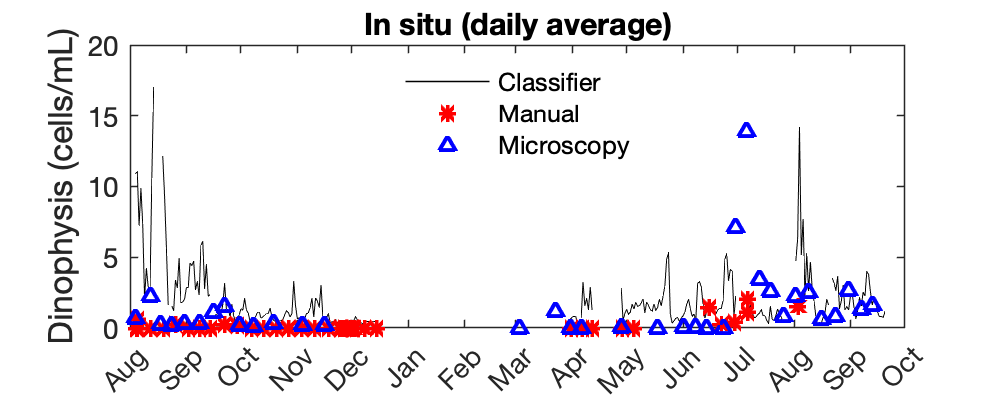
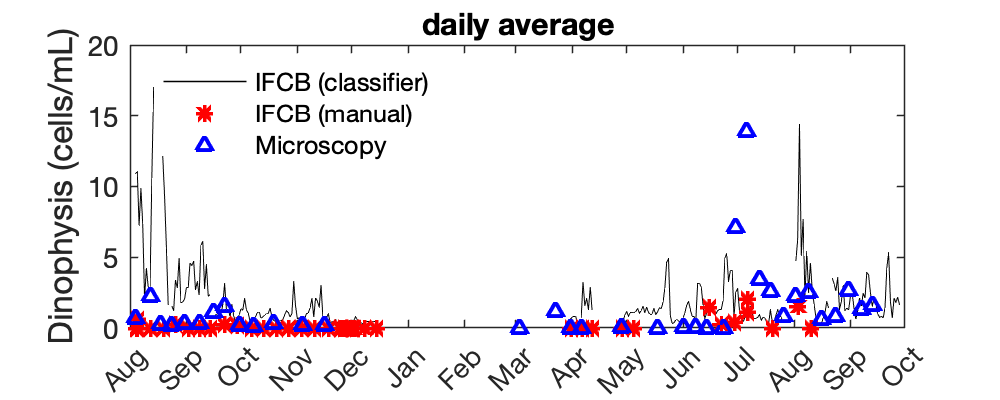
new BI summary plots

diff --git a/NOAA/BuddInlet/plot_manual_vs_class_Dinophysis.m b/NOAA/BuddInlet/plot_manual_vs_class_Dinophysis.m
@@ -15,17 +15,13 @@ idx=~strcmp(filecomment,{' '}); % remove discrete samples
 ml_analyzed(idx)=[]; matdate(idx)=[]; classcount(idx,:)=[];
 
 %%%% load in classified data
-Y1=load([filepath 'IFCB-Data/BuddInlet/class/summary_biovol_allTB2021'],...
-    'class2useTB','ml_analyzedTB','mdateTB','classcountTB','filecommentTB');
-Y2=load([filepath 'IFCB-Data/BuddInlet/class/summary_biovol_allTB2022'],...
-    'class2useTB','ml_analyzedTB','mdateTB','classcountTB','filecommentTB');
-class2useTB=Y1.class2useTB;
-ml_analyzedTB=[Y1.ml_analyzedTB;Y2.ml_analyzedTB];
-mdateTB=[Y1.mdateTB;Y2.mdateTB];
-classcountTB=[Y1.classcountTB;Y2.classcountTB];
-filecommentTB=[Y1.filecommentTB;Y2.filecommentTB];
+load([filepath 'IFCB-Data/BuddInlet/class/summary_biovol_allTB_2021-2022'],...
+    'mdateTB','class2useTB','ml_analyzedTB','classcountTB','filecommentTB','runtypeTB');
 
-%% separate discrete samples (data with file comment)
+% remove backscatter triggered samples from data
+idx=contains(runtypeTB,'ALT'); ml_analyzedTB(idx)=[]; mdateTB(idx)=[]; filecommentTB(idx)=[]; classcountTB(idx,:)=[];
+
+% separate discrete samples (data with file comment)
 idx=contains(filecommentTB,' BS_trigger'); ml_analyzedBS=ml_analyzedTB(idx); mdateBS=mdateTB(idx); classcountBS=classcountTB(idx,:);
 idx=contains(filecommentTB,' FL_trigger'); ml_analyzedFL=ml_analyzedTB(idx); mdateFL=mdateTB(idx); classcountFL=classcountTB(idx,:);
 
@@ -51,17 +47,17 @@ dt=datetime(matdate,'ConvertFrom','datenum');
 %% full temporal resolution on 2022
 figure('Units','inches','Position',[1 1 5 2],'PaperPositionMode','auto'); 
 
-xax1=datetime('2022-06-01'); xax2=datetime('2022-08-01');     
+xax1=datetime('2022-06-15'); xax2=datetime('2022-07-24');     
 
 h=plot(dtTB(:),dinoC(:),'k-',dt,dinoM,'r*',T.SampleDate,...
     .001*T.DinophysisConcentrationcellsL,'b^','linewidth',.5); hold on;
 set(h(2),'markersize',6,'linewidth',1.5)
 set(h(3),'markersize',5,'linewidth',1.5)
-set(gca,'xlim',[xax1 xax2])
-    datetick('x', 'mmm', 'keeplimits');    
+set(gca,'xlim',[xax1 xax2],'ylim',[0 20])
+    datetick('x', 'mm/dd', 'keeplimits');    
     ylabel('Dinophysis (cells/mL)','fontsize',12);
-    legend('Classifier','Manual','Microscopy','Location','NW'); legend boxoff;
-    title('In situ (high res, bloom closeup)')
+    legend('IFCB (classifier)','IFCB (manual)','Microscopy','Location','NE'); 
+    title('high temporal resolution, bloom closeup')
 
 set(gcf,'color','w');
 print(gcf,'-dpng','-r200',[filepath 'NOAA/BuddInlet/Figs/ManualvsClassifer.png']);
@@ -83,8 +79,8 @@ set(h(3),'markersize',5,'linewidth',1.5)
 set(gca,'xlim',[xax1 xax2])
     datetick('x', 'mmm', 'keeplimits');    
     ylabel('Dinophysis (cells/mL)','fontsize',12);
-    legend('Classifier','Manual','Microscopy','Location','N'); legend boxoff;
-    title('In situ (daily average)')
+    legend('IFCB (classifier)','IFCB (manual)','Microscopy','Location','NW');
+    title('daily average')
 
 set(gcf,'color','w');
 print(gcf,'-dpng','-r200',[filepath 'NOAA/BuddInlet/Figs/ManualvsClassifer_dailyaverage.png']);

diff --git a/IFCB-Tools/filecomments/find_tagged_samples_hdr.m b/IFCB-Tools/filecomments/find_tagged_samples_hdr.m
@@ -1,4 +1,4 @@
-function [ ] = find_discrete_samples_hdr( datapath, summarydir)
+function [ ] = find_tagged_samples_hdr( tag, datapath, summarydir)
 %function [ ] = find_discrete_samples( datapath, summarydir)
 %
 % finds discrete samples that have labels BS_trigger, Fl_trigger or FL_trigger
@@ -9,6 +9,7 @@ function [ ] = find_discrete_samples_hdr( datapath, summarydir)
 %Example inputs:
 % datapath = 'C:\SFTP-BuddInlet\'; %where to access data (hdr files)
 % summarydir='C:\Users\ifcbuser\Documents\GitHub\bloom-baby-bloom\IFCB-Data\BuddInlet\';
+% tag='trigger';
 
 addpath(genpath(datapath)); % add new data to search path
 addpath(genpath(summarydir)); % add new data to search path
@@ -40,7 +41,7 @@ end
 % filecomment(idx)={' '};
 
 % get filelist of discrete samples
-idx=contains(filecomment,'trigger');
+idx=contains(filecomment,tag);
 filename_discrete={filelist(idx).name}';
 triggertype=filecomment(idx);
 

diff --git a/NOAA/BuddInlet/plot_microscopy_Dinophysis.m b/NOAA/BuddInlet/plot_microscopy_Dinophysis.m
@@ -11,7 +11,7 @@ idx=string([S.Location])=='Port';
 
 %% plot BI 
 figure('Units','inches','Position',[1 1 6 3.5],'PaperPositionMode','auto');
-subplot = @(m,n,p) subtightplot (m, n, p, [0.04 0.04], [0.12 0.08], [0.09 0.21]);
+subplot = @(m,n,p) subtightplot (m, n, p, [0.04 0.04], [0.1 0.15], [0.09 0.21]);
 %subplot = @(m,n,p) subtightplot(m,n,p,opt{:}); 
 %where opt = {gap, width_h, width_w} describes the inner and outer spacings.  
 
@@ -24,6 +24,7 @@ plot(T.SampleDate,.001*T.DinophysisConcentrationcellsL,'k*-','MarkerSize',5);
     ylabel('Dinophysis (cells/mL)','fontsize',11);
 %legend('OYC','Port Plaza','Location','N');
     datetick('x', 'mm/dd', 'keeplimits');    
+    title('Microscopy')
 
 subplot(2,1,2);
 h = bar(T.SampleDate,0.01*[T.DAcuminata T.DFortii T.DNorvegica T.DOdiosa...
